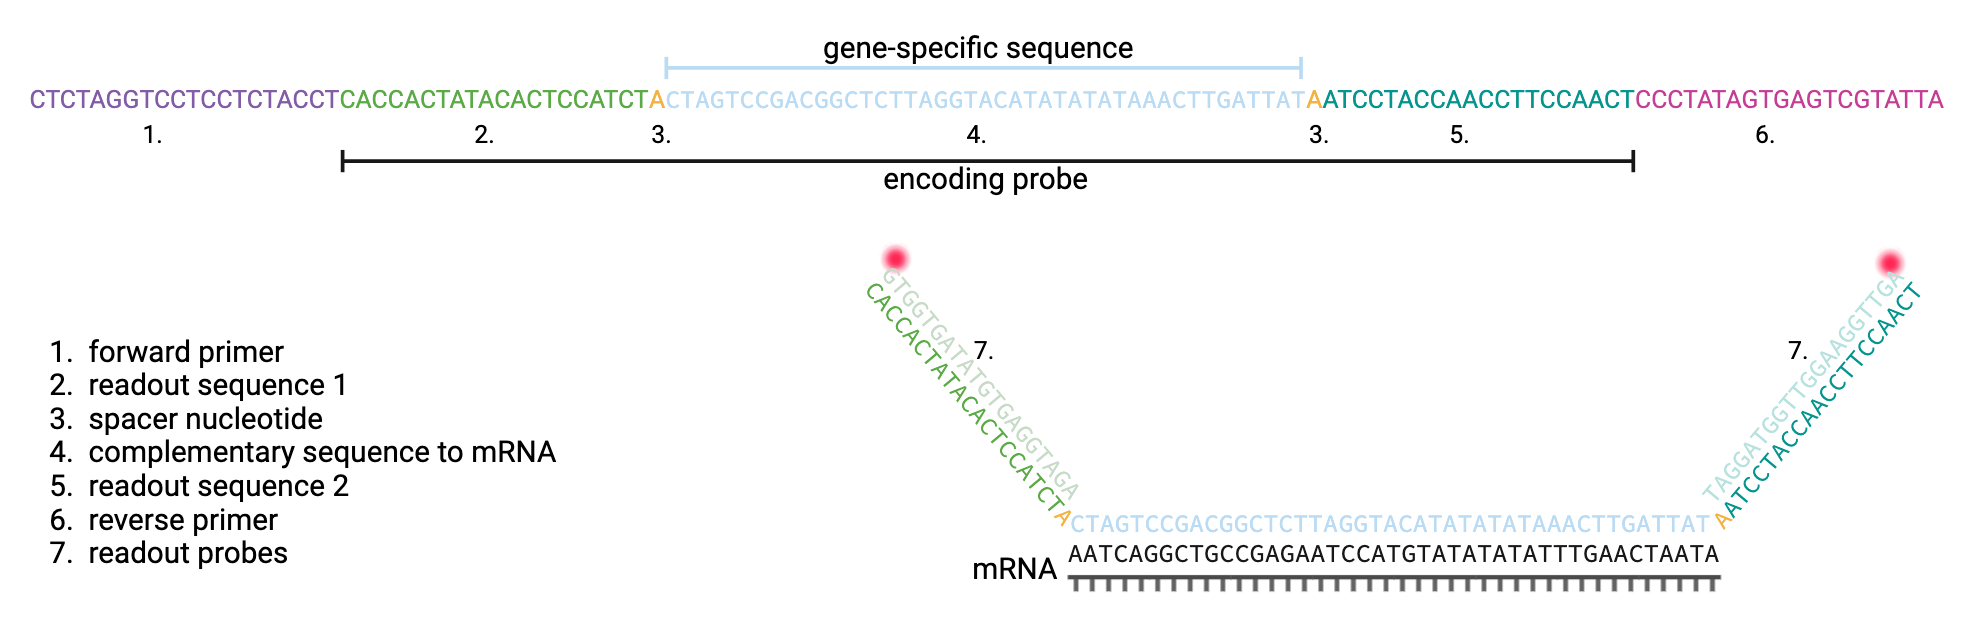
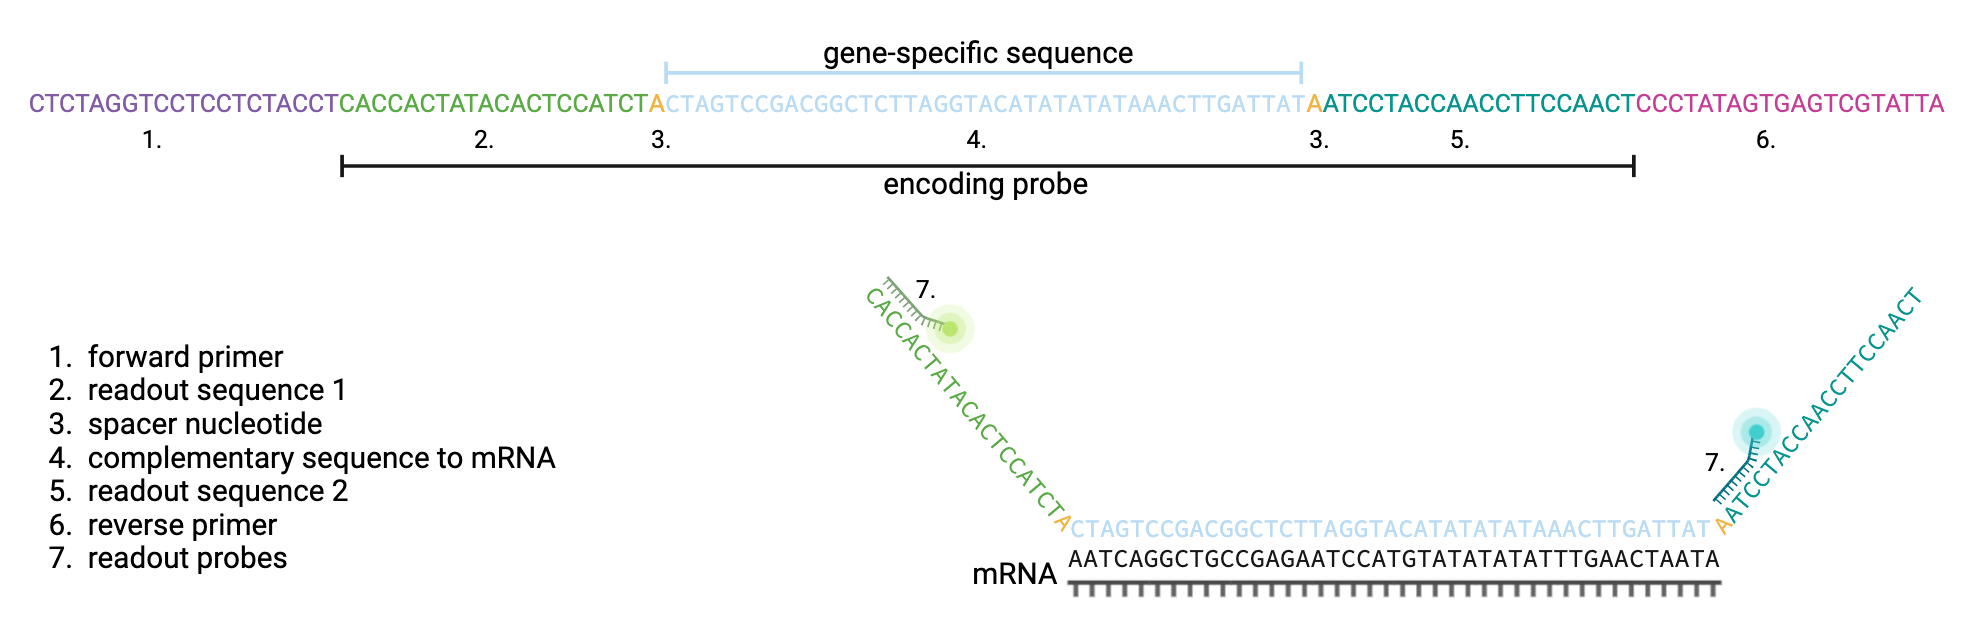
add probe figues

diff --git a/docs/source/_pipelines/seqfishplus_probe_designer.rst b/docs/source/_pipelines/seqfishplus_probe_designer.rst
@@ -9,6 +9,8 @@ A SeqFISH+ probe is a flourescent probe that contains a 28-nt gene-specific sequ
 single T-nucleotide spacers between readout and gene-specific regions, and two 20-nt PCR primer binding sites. 
 The specific readout sequences contained by an encoding probe are determined by the binary barcode assigned to that RNA.
 
+.. image:: ../_static/pipeline_seqfishplus_probes.png
+
 If you are using the SeqFISH+ Probe Design Pipeline, consider citing the Oligo Designer Toolsuite package [1] and in addition Kuemmerle et al. [2]
 The SeqFISH+ Probe Design Pipeline follows the design steps listed in [3].
 

diff --git a/docs/source/_pipelines/oligoseq_probe_designer.rst b/docs/source/_pipelines/oligoseq_probe_designer.rst
@@ -102,7 +102,7 @@ The pipeline has four major steps:
 .. image:: ../_static/pipeline_oligoseq.jpg
    :align: right
    :alt: Oligo-Seq Design Pipeline
-   :width: 400px
+   :width: 300px
 
 For the probe generation step, the user has to provide a FASTA file with genomic sequences which is used as reference for the generation of probe sequences. 
 The probe sequences are generated using the ``OligoSequenceGenerator``. 
